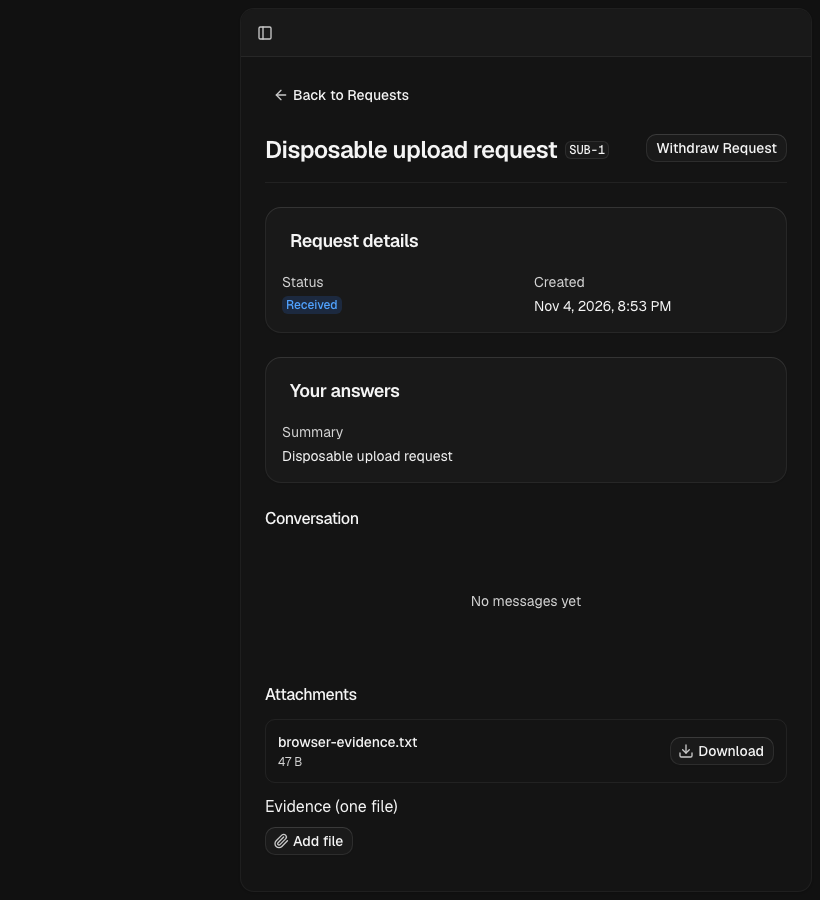
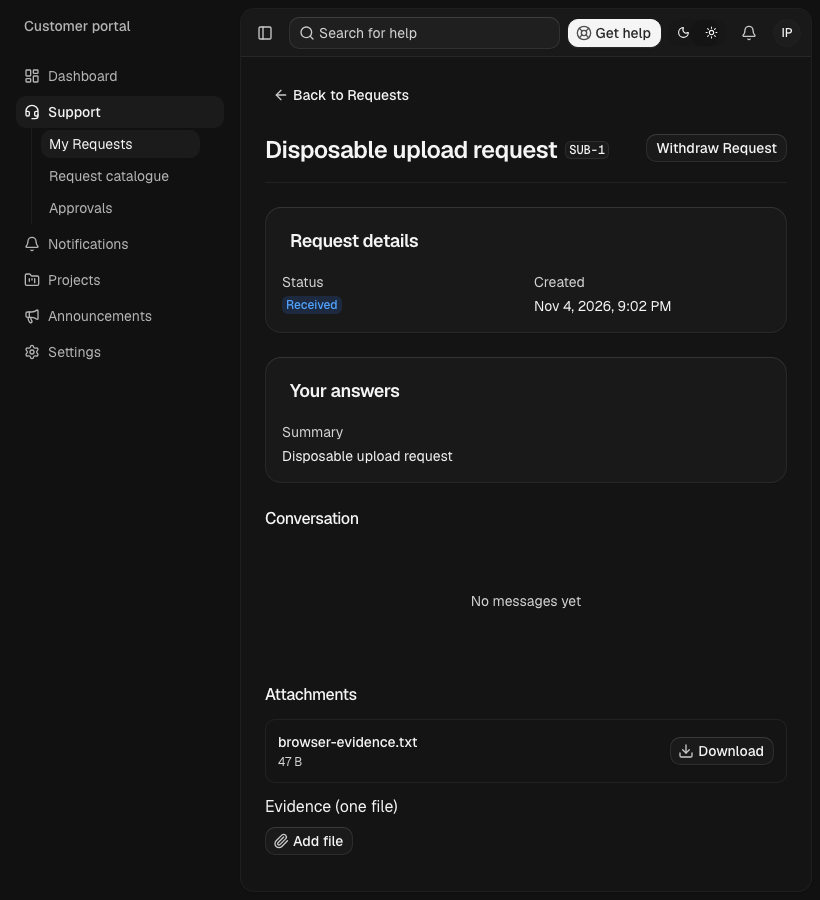
test(storage): wait for settled portal navigation

diff --git a/tests/e2e/portal-submission-upload-binding.spec.ts b/tests/e2e/portal-submission-upload-binding.spec.ts
@@ -361,6 +361,16 @@ test("open submission file upload binds the real customer session", async ({
           for (const colorScheme of ["light", "dark"] as const) {
             await customerPage.setViewportSize({ width, height: 900 });
             await customerPage.emulateMedia({ colorScheme });
+            if (width >= 768) {
+              const sidebar = customerPage.locator(
+                '[data-slot="sidebar-container"]',
+              );
+              await expect(sidebar).toBeVisible();
+              await expect(sidebar).toHaveCSS("left", "0px");
+              await expect(
+                sidebar.locator('[data-slot="sidebar-inner"]'),
+              ).toBeVisible();
+            }
             await expect(customerPage.locator("html")).toHaveClass(
               new RegExp(`\\b${colorScheme}\\b`, "u"),
             );
